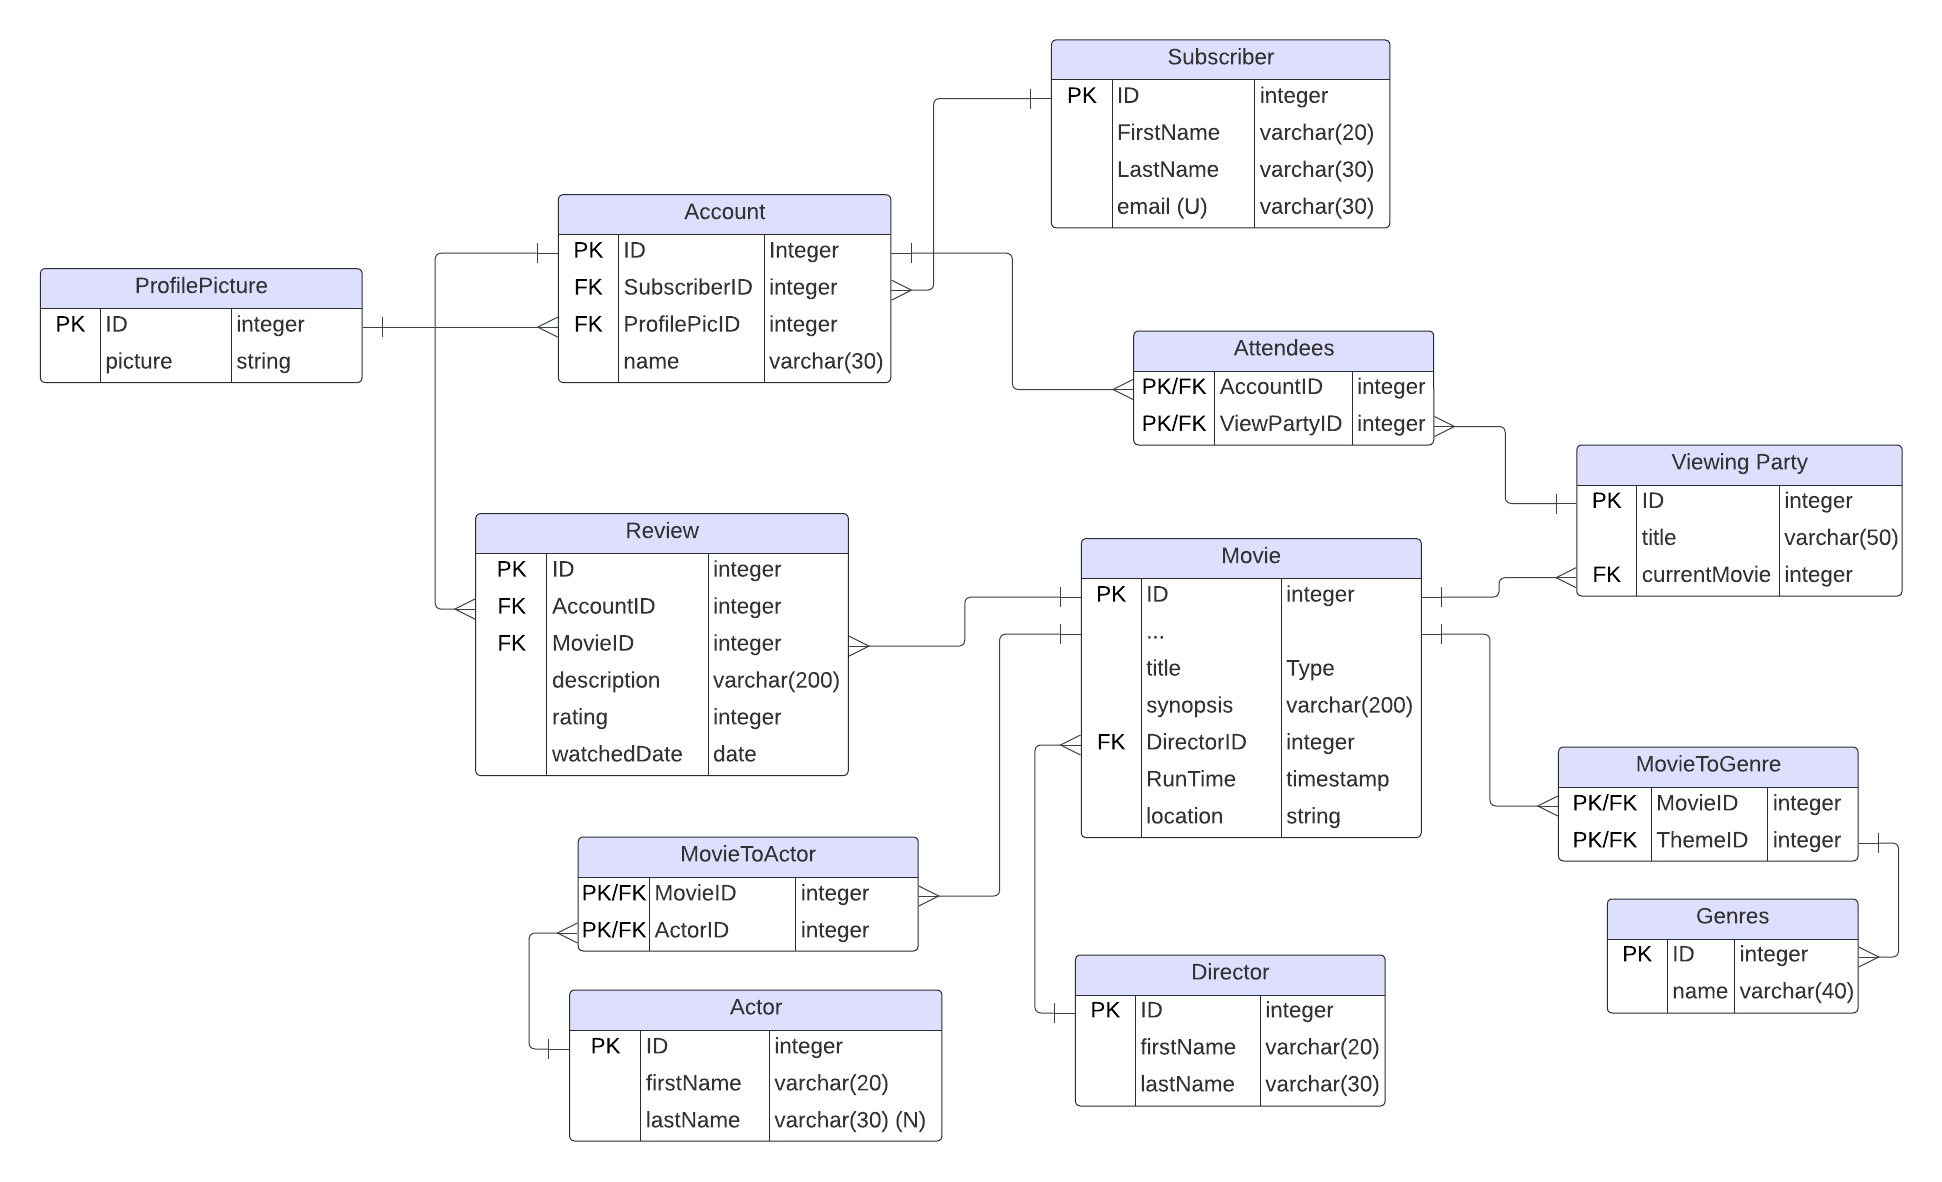
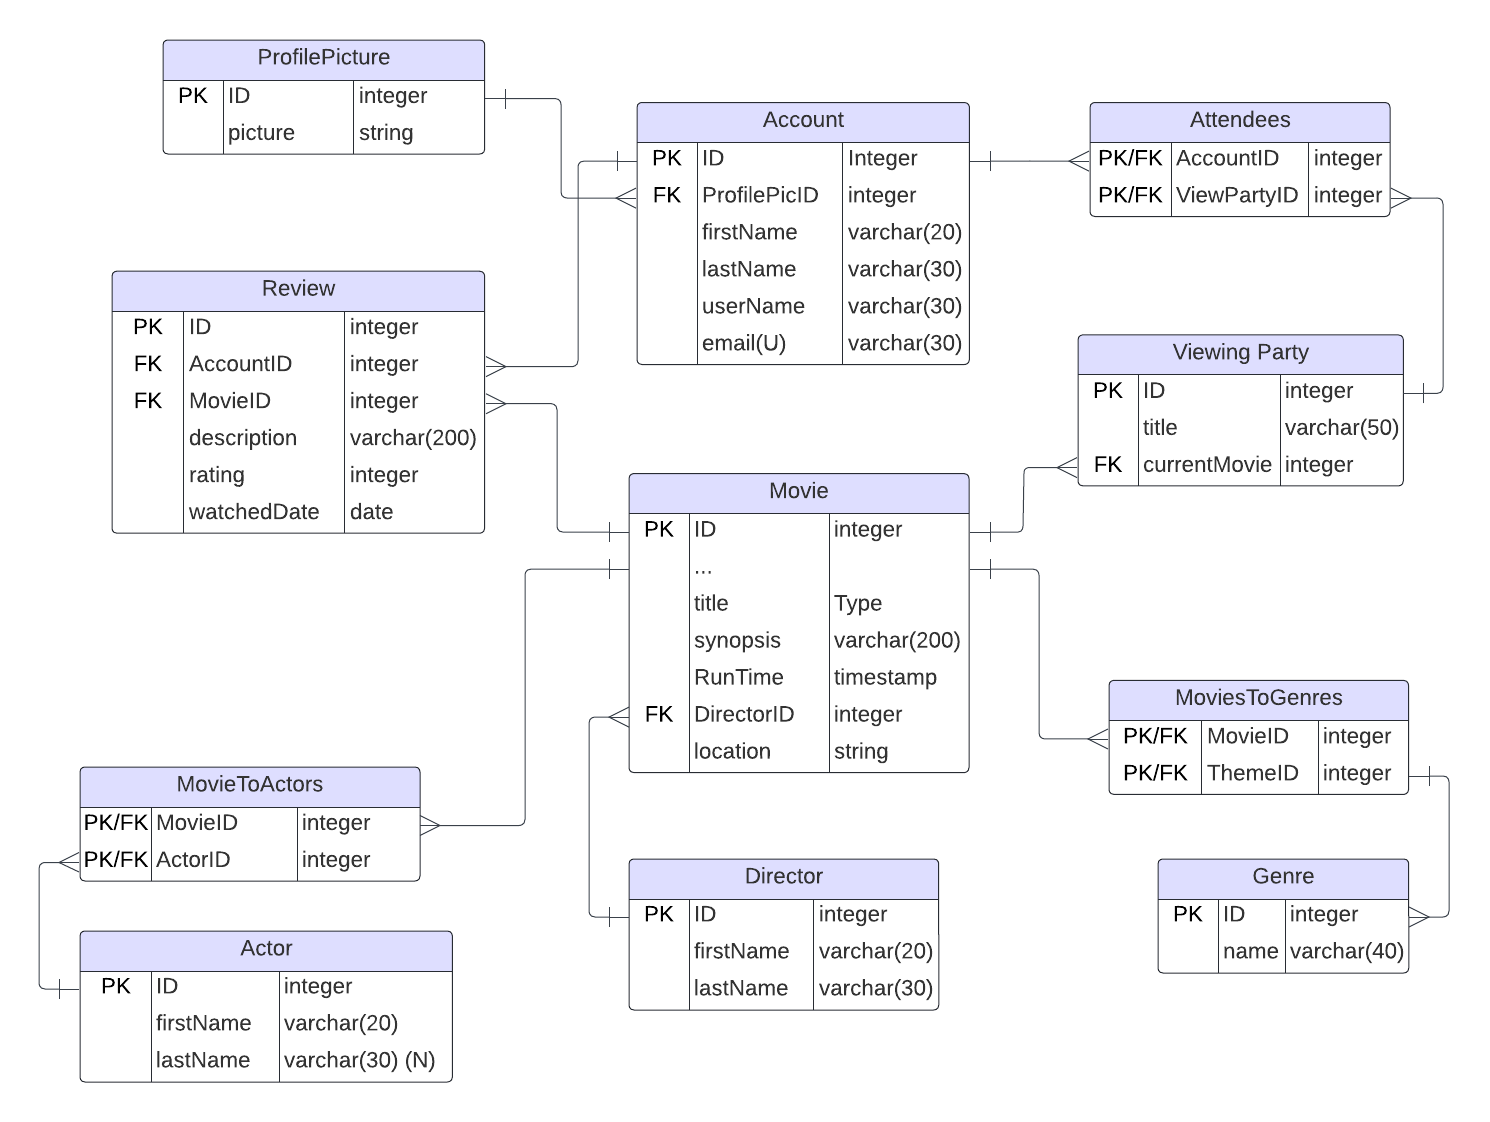
New schema and DB connection implementation

Changed region(s): [[0.0, 0.0312, 0.9879, 0.967], [0.0926, 0.0312, 0.3396, 0.1248]]

diff --git a/Start/MovieDB.java b/Start/MovieDB.java
@@ -1,0 +1,353 @@
+/*
+ * DB APIs and associated methods:
+ * Connect(), Disconnect(), ListAllAccounts(), ListAllSubscribers(), InsertMovies(), InsertProfilePicture(), and InsertTheme().
+ * 
+ * Done by Chris Chen, may need to review for debug and further update.
+ * 
+ */
+
+ package final_project;
+
+ import java.sql.*;
+ import java.util.HashMap;
+ import java.util.Properties;
+ 
+ public class MovieDB {
+     // JDBC URL, username, and password of PostgreSQL server (TO BE ACCUSTOMED)
+     private static final String URL = "jdbc:postgresql://localhost:5432/movietoacct"; 
+     private static final String USER = "postgres";
+     private static final String PASSWORD = "2606";
+     private static Connection connection = null;
+     
+     //functions:
+     public static Connection Connect() throws SQLException{
+         
+         if(connection != null && !connection.isValid(10000))
+         {
+             connection = null;
+         }
+         
+         int tries = 0;
+         while(connection == null || connection.isClosed())
+         {
+             try {
+                 tries++;
+                 System.out.println("Trying to connect to a DB.");
+ 
+                 Properties property_c = new Properties();
+                 property_c.put("user", USER);
+                 property_c.put("password", PASSWORD);
+         
+                 connection = DriverManager.getConnection(URL, property_c);
+ 
+                 if(!connection.isValid(100))
+                 {
+                     connection = null;
+                     throw new SQLException("Connection not Valid");
+                 }
+     
+             } catch (SQLException e) {
+                 System.out.println("Failed connecting to DB !");
+ 
+                 if(tries >= 5)
+                 {
+                     connection = null;
+                     throw e;
+                 }
+ 
+                 try {
+                     Thread.sleep(1000);
+                 } catch (InterruptedException e1) {
+                     e1.printStackTrace();
+                 }
+             }  
+             System.out.println("");          
+         }
+         
+         return connection;
+     }
+     
+     public static void Disconnect(){
+         try {
+             if (connection != null && !connection.isClosed()) {
+                connection.close();
+             } 
+         }catch (SQLException e) {
+                 e.printStackTrace();
+             }
+     }
+  
+ 
+ //accounts:
+ 
+ 
+ /*
+  * List all accounts with all of their information 
+  * 
+  * 
+  * 
+  * 
+  * 
+  */
+     public static void ListAllAccounts() throws SQLException{
+         System.out.println("");
+         
+         Statement statement = null;
+         ResultSet result = null;
+         try {
+             
+             Connection connection = Connect();
+             
+             String sqlStatement = "SELECT account.name, COALESCENE(accounts.email, 'None')" 
+             + "FROM account " 
+             + "ORDER BY account.id ASC";
+             
+             statement = connection.createStatement();
+             result = statement.executeQuery(sqlStatement);
+             
+             boolean recordExists = false;
+             
+             while(result != null && result.next()) {
+                 recordExists = true;
+                 System.out.println("Account Name: " + result.getString("name"));
+                 System.out.println("Email Address: " + result.getString("email"));
+                 System.out.println("");
+             }
+             
+             if(!recordExists) {
+                 System.out.println("No Account is found!");
+                 System.out.println("");
+             }
+         }catch (SQLException exception) {
+             exception.getStackTrace();
+         }finally {
+             if(statement != null) {
+                 statement.close();
+             }
+             if(result != null) {
+                 result.close();
+             }
+             
+         }
+     }
+     
+ /*
+  * List all subscribers and their emails per account.
+  * 
+  * 
+  * 
+  * 
+  * 
+  */
+     
+     public static void ListAllSubscribers() throws SQLException{
+         System.out.println("");
+         
+         Statement statement = null;
+         ResultSet result = null;
+         
+         try {
+             
+             Connection connection = Connect();
+             
+             String sqlStatement = "SELECT account.name, subscriber.firstname, subscriber.lastname, subscriber.email"
+                                 + "FROM account"
+                                 + "JOIN subscriber ON (account.subscriberID = subscriber.id"
+                                 + "ORDER BY account.id, subscriber.firstname, subscriber.lastname";
+             statement = connection.createStatement();
+             result = statement.executeQuery(sqlStatement);
+             
+             boolean recordExists = false;
+             while(result != null && result.next()) {
+                 recordExists = true;
+                 System.out.println("Account Name: " + result.getString("name"));
+                 System.out.println("Subscriber First Name: " + result.getString("firstname"));
+                 System.out.println("Subscriber Last Name: " + result.getString("lastname"));
+                 System.out.println("Subscriber Email: " + result.getString("email"));
+                 System.out.println("");
+             }
+             
+             if(!recordExists) {
+                 System.out.println("No subscriber is found!");
+                 System.out.println("");
+             }
+         }catch (SQLException exception) {
+             exception.getStackTrace();
+         }finally {
+             if(statement != null) {
+                 statement.close();
+             }
+             if(result != null) {
+                 result.close();
+             }
+             
+         }
+     }
+     
+  /*
+   * Add new Movies to the database  
+   */
+     public static void InsertMovies(String type, String synopsis, String directorFirstName, String directorLastName, Timestamp runtime) throws SQLException {
+         System.out.println("");
+         
+         Statement statement = null;
+         ResultSet result = null;
+         
+         try {
+             
+             Connection connection = Connect();
+             
+             String sqlStatement = "SELECT *" +
+                                   "FROM movie" +
+                                   "WHERE type = " + type +
+                                   "AND synopsis = " + synopsis;
+             statement = connection.createStatement();
+             result = statement.executeQuery(sqlStatement);
+             
+         if(result != null && result.next()) {
+             System.out.println("Input movie already exist!");
+             System.out.println("");
+             return;
+         }
+         
+         if(statement != null) {
+             statement.close();
+         }
+         if(result != null) {
+             result.close();
+         }
+         sqlStatement = "INSERT INTO movies(type, synopsis, firstname, lastname, runtime)" +
+               "VALUES (" + type + ", " + synopsis + ", " + directorFirstName + ", " + directorLastName + ", " + runtime + ")"; 	
+         
+         statement = connection.createStatement();
+         result = statement.executeQuery(sqlStatement);
+         
+         if(result != null) {
+             System.out.println("Movie successfully added!");
+         }
+         
+         }catch (SQLException exception) {
+             exception.getStackTrace();
+         }finally {
+             if(statement != null) {
+                 statement.close();
+             }
+             if(result != null) {
+                 result.close();
+             }
+             
+         }
+     }
+     
+ /*
+  * insert new profile picture to the database
+  * 
+  * 
+  */ 
+     public static void InsertProfilePicture(String pfp_location) throws SQLException {
+         System.out.println("");
+         
+         Statement statement = null;
+         ResultSet result = null;
+         
+ try {
+             
+             Connection connection = Connect();
+             
+             String sqlStatement = "SELECT *" +
+                                   "FROM ProfilePicture" +
+                                   "WHERE picture = " + pfp_location;
+             statement = connection.createStatement();
+             result = statement.executeQuery(sqlStatement);
+             
+         if(result != null && result.next()) {
+             System.out.println("Input profile picture already exist!");
+             System.out.println("");
+             return;
+         }
+         
+         if(statement != null) {
+             statement.close();
+         }
+         if(result != null) {
+             result.close();
+         }
+         sqlStatement = "INSERT INTO ProfilePictures(picture)" +
+                         "VALUES(" + pfp_location + ")";
+         
+         statement = connection.createStatement();
+         result = statement.executeQuery(sqlStatement);
+         
+         if(result != null) {
+             System.out.println("Movie successfully added!");
+         }
+         
+         }catch (SQLException exception) {
+             exception.getStackTrace();
+         }finally {
+             if(statement != null) {
+                 statement.close();
+             }
+             if(result != null) {
+                 result.close();
+             }
+             
+         }
+     }
+ /*
+ * insert new theme to the database
+ * 
+ * 
+ */ 
+         public static void InsertTheme(String name) throws SQLException {
+             System.out.println("");
+             
+             Statement statement = null;
+             ResultSet result = null;
+             
+     try {
+                 
+                 Connection connection = Connect();
+                 
+                 String sqlStatement = "SELECT *" +
+                                       "FROM Theme" +
+                                       "WHERE name = '" + name + "'";
+                 statement = connection.createStatement();
+                 result = statement.executeQuery(sqlStatement);
+                 
+             if(result != null && result.next()) {
+                 System.out.println("Input profile picture already exist!");
+                 System.out.println("");
+                 return;
+             }
+             
+             if(statement != null) {
+                 statement.close();
+             }
+             if(result != null) {
+                 result.close();
+             }
+             sqlStatement = "INSERT INTO Theme(name)" +
+                             "VALUES( '" + name + "')";
+             
+             statement = connection.createStatement();
+             result = statement.executeQuery(sqlStatement);
+             
+             if(result != null) {
+                 System.out.println("Movie successfully added!");
+             }
+             
+             }catch (SQLException exception) {
+                 exception.getStackTrace();
+             }finally {
+                 if(statement != null) {
+                     statement.close();
+                 }
+                 if(result != null) {
+                     result.close();
+                 }
+                 
+             }
+         }
+     
+ }
